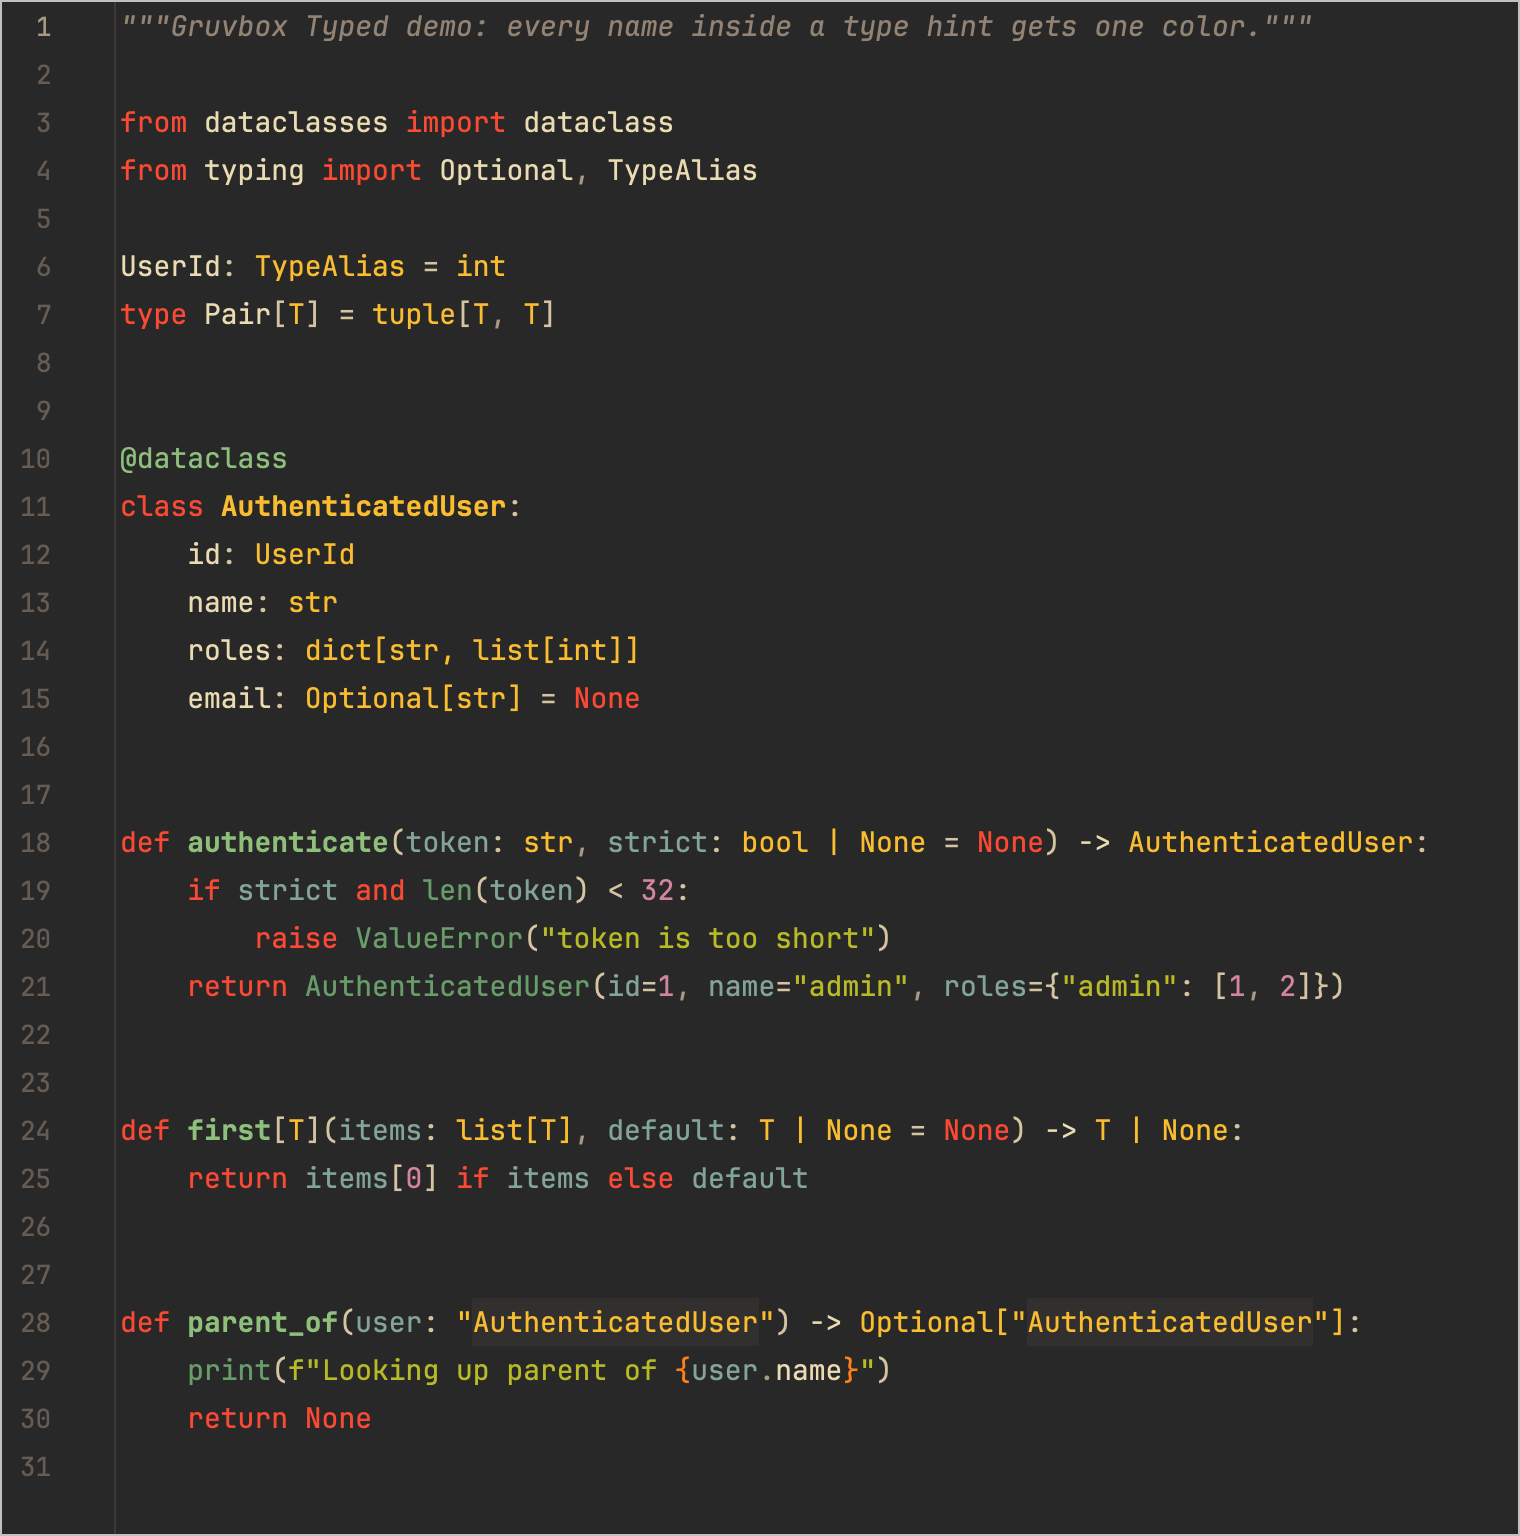
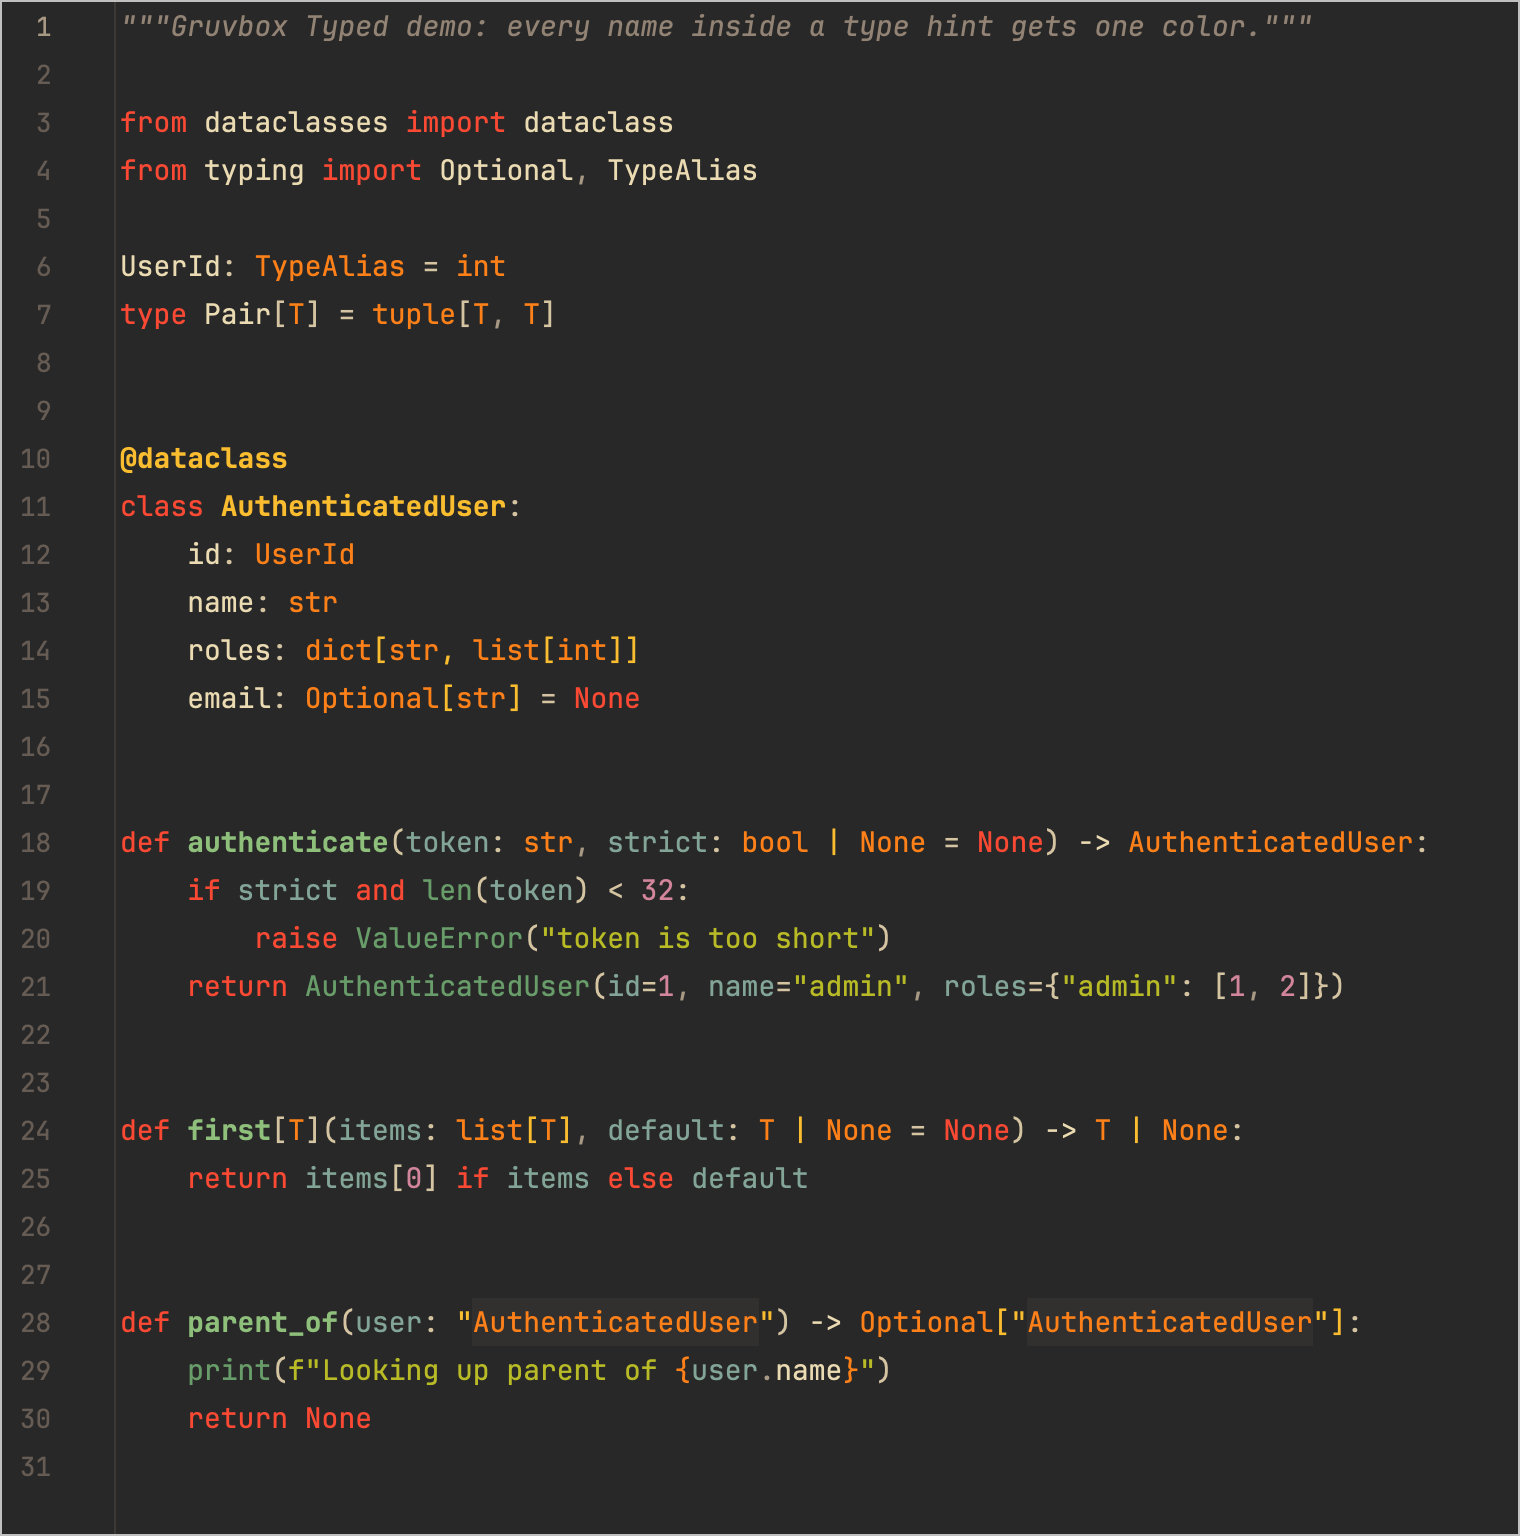
Make type hints orange and decorators yellow bold
Type hints now share the built-in name color, so decorators can use
yellow bold without blending into annotations.

diff --git a/src/test/kotlin/io/github/valeriisynenko/gruvboxtyped/GruvboxTypedResourcesTest.kt b/src/test/kotlin/io/github/valeriisynenko/gruvboxtyped/GruvboxTypedResourcesTest.kt
@@ -10,6 +10,7 @@ import com.intellij.testFramework.fixtures.BasePlatformTestCase
 import com.jetbrains.python.highlighting.PyHighlighter
 import io.github.valeriisynenko.gruvboxtyped.python.PyTypeHintHighlighting
 import java.awt.Color
+import java.awt.Font
 
 /**
  * Headless tests don't install bundled themes and schemes, so the resources are loaded directly.
@@ -22,7 +23,9 @@ class GruvboxTypedResourcesTest : BasePlatformTestCase() {
         assertEquals("Gruvbox Typed Dark Medium", scheme.name)
         assertEquals(Color(0x28, 0x28, 0x28), scheme.defaultBackground)
         assertEquals(Color(0xEB, 0xDB, 0xB2), scheme.defaultForeground)
-        assertEquals(Color(0xFA, 0xBD, 0x2F), scheme.getAttributes(PyTypeHintHighlighting.TYPE_HINT).foregroundColor)
+        assertEquals(Color(0xFE, 0x80, 0x19), scheme.getAttributes(PyTypeHintHighlighting.TYPE_HINT).foregroundColor)
+        assertEquals(Color(0xFA, 0xBD, 0x2F), scheme.getAttributes(PyHighlighter.PY_DECORATOR).foregroundColor)
+        assertEquals(Font.BOLD, scheme.getAttributes(PyHighlighter.PY_DECORATOR).fontType)
         assertEquals(Color(0xFE, 0x80, 0x19), scheme.getAttributes(PyHighlighter.PY_BUILTIN_NAME).foregroundColor)
         assertEquals(Color(0x68, 0x9D, 0x6A), scheme.getAttributes(PyHighlighter.PY_FUNCTION_CALL).foregroundColor)
         assertEquals(Color(0xFA, 0xBD, 0x2F), scheme.getAttributes(PyHighlighter.PY_ANNOTATION).foregroundColor)
